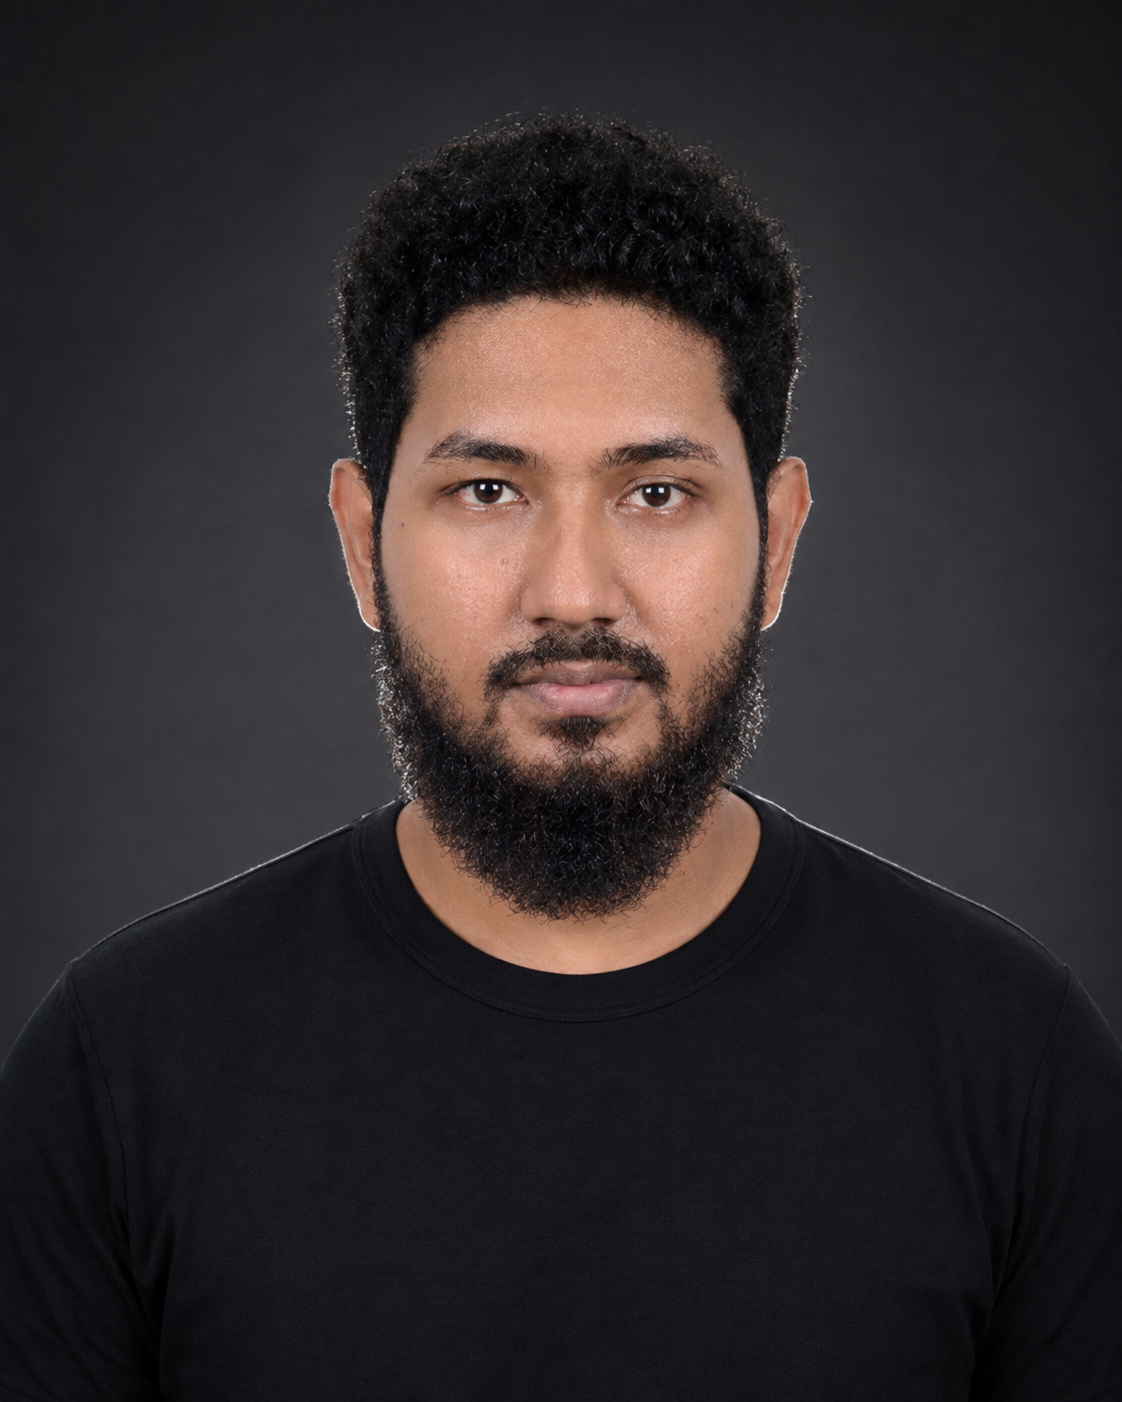
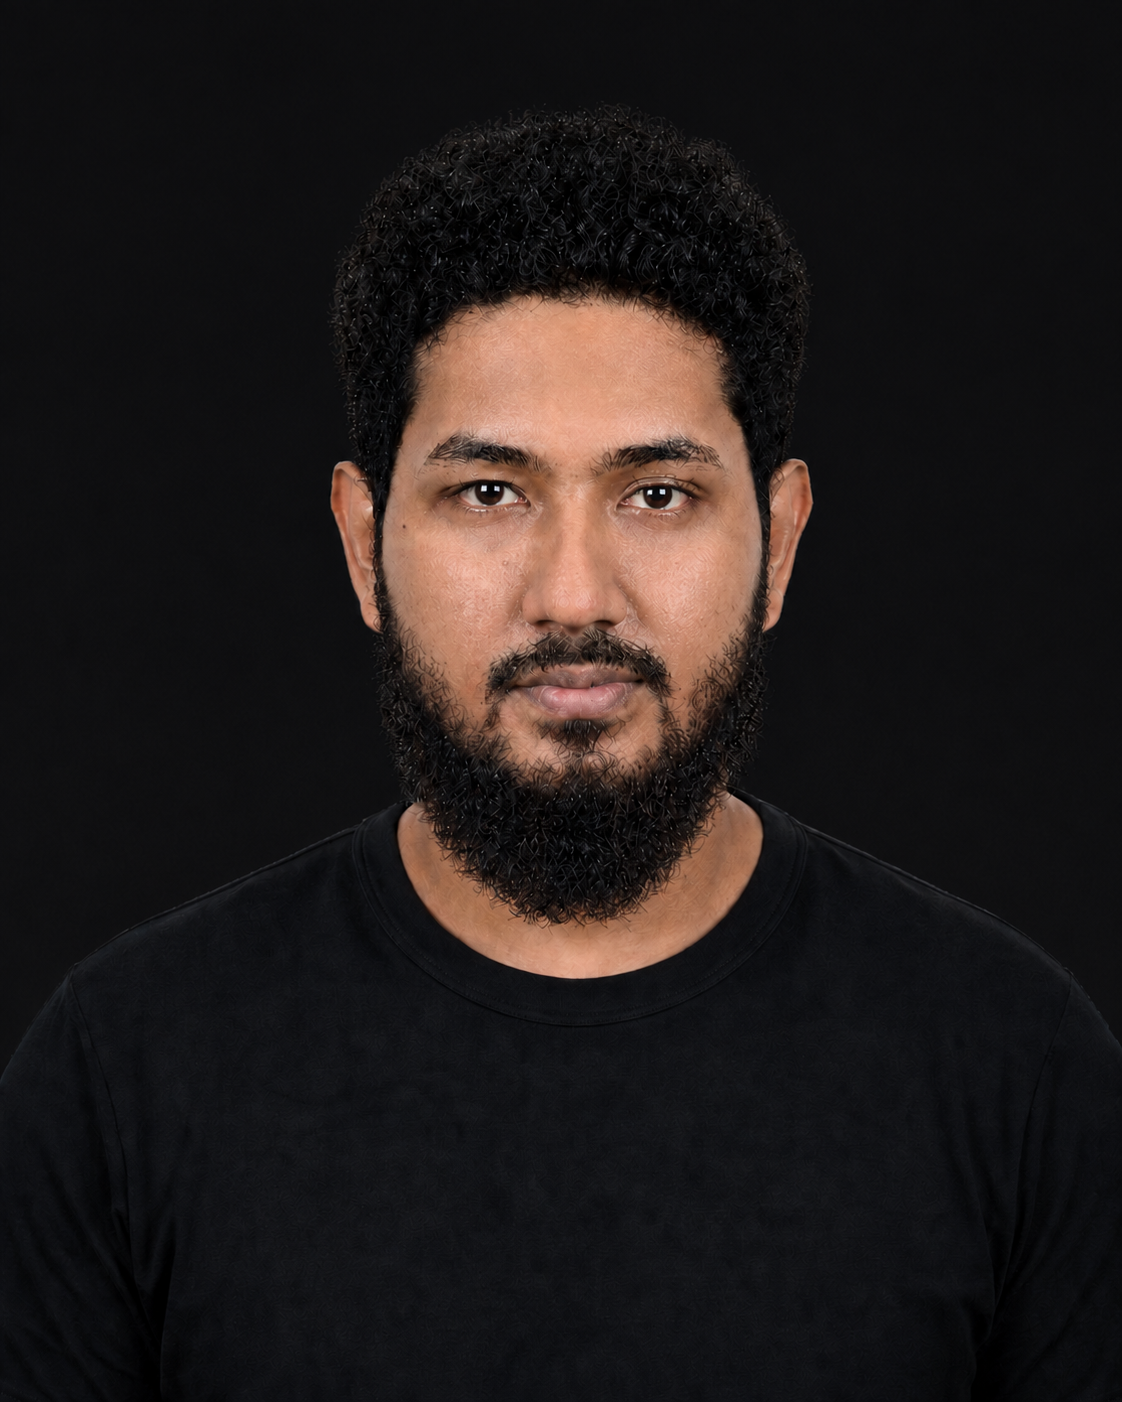
fix: improve portfolio portrait quality

diff --git a/index.html b/index.html
@@ -73,8 +73,8 @@
         <img
           src="assets/images/farhan-portrait.webp"
           alt="Muhammed Farhan Sadique Mahi"
-          width="896"
-          height="1120"
+          width="1122"
+          height="1402"
           fetchpriority="high"
         >
       </figure>

diff --git a/README.md b/README.md
@@ -67,7 +67,32 @@ The downloadable CV is newly typeset from the supplied CV and verified public pr
 
 ## Portrait edit
 
-Built-in ImageGen, `identity-preserve` edit, one generation. Prompt: preserve the exact facial structure, proportions, eyes, skin tone, curly black hair, full beard and calm expression; replace the light blue shirt with a plain black crewneck, use a deep charcoal studio background, soft key light and delicate edge light, frame a vertical 4:5 head-and-shoulders portrait, retain natural skin texture, and avoid text, logos, heavy retouching or changes to identity. The WebP is an optimised copy of the generated PNG.
+The original portrait was created with built-in ImageGen from the supplied photograph, preserving the subject's identity and replacing the blue shirt with a black crewneck.
+
+The current portrait was refined with built-in ImageGen on 7 September 2026 to clean the bright edge fringe and improve facial clarity. The PNG master is `assets/images/farhan-portrait.png`; the website uses `assets/images/farhan-portrait.webp` at its full native 1122 × 1402 resolution, encoded with WebP quality 95 and sharp YUV conversion. The requested 2048 × 2560 output was not returned by the tool; the image has not been artificially enlarged.
+
+First repair prompt:
+
+```text
+Use case: identity-preserve.
+Asset type: high-resolution portrait for an existing dark developer portfolio.
+Input image 1: edit target and strict identity/composition reference.
+Primary request: repair the supplied portrait's image quality and edge contamination. Keep this exact person, face, age, expression, direct gaze, natural skin tone, facial proportions, distinctive eyes/nose/lips/ears, curly black hair, full beard and moustache, body pose and plain black crewneck unchanged. This is a restrained photographic retouch, not a new person or a makeover.
+Background: replace the existing gray glowing backdrop with a clean, uniform very dark charcoal #101113, matching the portfolio background. Remove the conspicuous white/silver cutout fringe around curls, ears, beard, neck and shoulders. Preserve genuine dark fine hairs and soft natural edge transitions. No white outline, rim lighting, backlight, gray haze, light spots or halo.
+Face quality: improve optical clarity of eyes, eyebrows, hair and beard while removing compression artifacts, coarse speckled noise and muddy facial detail. Use soft balanced frontal studio light and restrained natural contrast so the face looks clear and alive. Preserve realistic fine skin texture and the existing facial features. Avoid oversharpening, crunchy hair, grain, pixelation, blur, waxy skin, airbrushing, plastic skin or invented freckles.
+Composition: keep the input's centered eye-level 4:5 head-and-shoulders framing, scale and headroom; entire hair and both shoulders inside the frame, black shirt continuing to the lower edge. Produce a high-resolution 2048 x 2560 portrait if supported, with clean smooth tonal transitions and fine natural detail.
+No text, watermark, logo, props, additional people, recoloring of skin, beauty filter, facial reshaping or clothing changes.
+```
+
+Final texture refinement prompt:
+
+```text
+Use case: identity-preserve.
+Input image: edit target, the same man's already edge-corrected portrait.
+Make one targeted photographic retouch: the face currently has excessive artificial squiggly, cracked, engraved microtexture on the forehead and cheeks, and the beard/hair look crunchy from oversharpening. Remove those sharpening and generation artifacts. Render skin as continuous natural photographic tones with faint, realistic pores, retaining original small facial details; use gentle noise reduction, not drawn/etched pores and not waxy airbrushing. Keep eyes naturally clear and in focus. Soften only excessive high-frequency facial texture and crunchy hair highlights, with clean realistic individual dark hair strands. Do NOT change face identity, face outline, proportions, expression, eyes, eyebrows, nose, lips, ears, beard shape, hairstyle, skin color, gaze, black crewneck, pose or framing.
+Preserve the corrected clean edges and uniform near-black charcoal backdrop matching #101113, without a white outline, gray halo, rim light, stray white flecks or light patches. Do not brighten the background.
+This must look like a clean high-quality real camera portrait, not an oil painting, etched illustration, beauty-filter face or oversharpened AI portrait. No new objects or text.
+```
 
 ## Asset licenses
 
